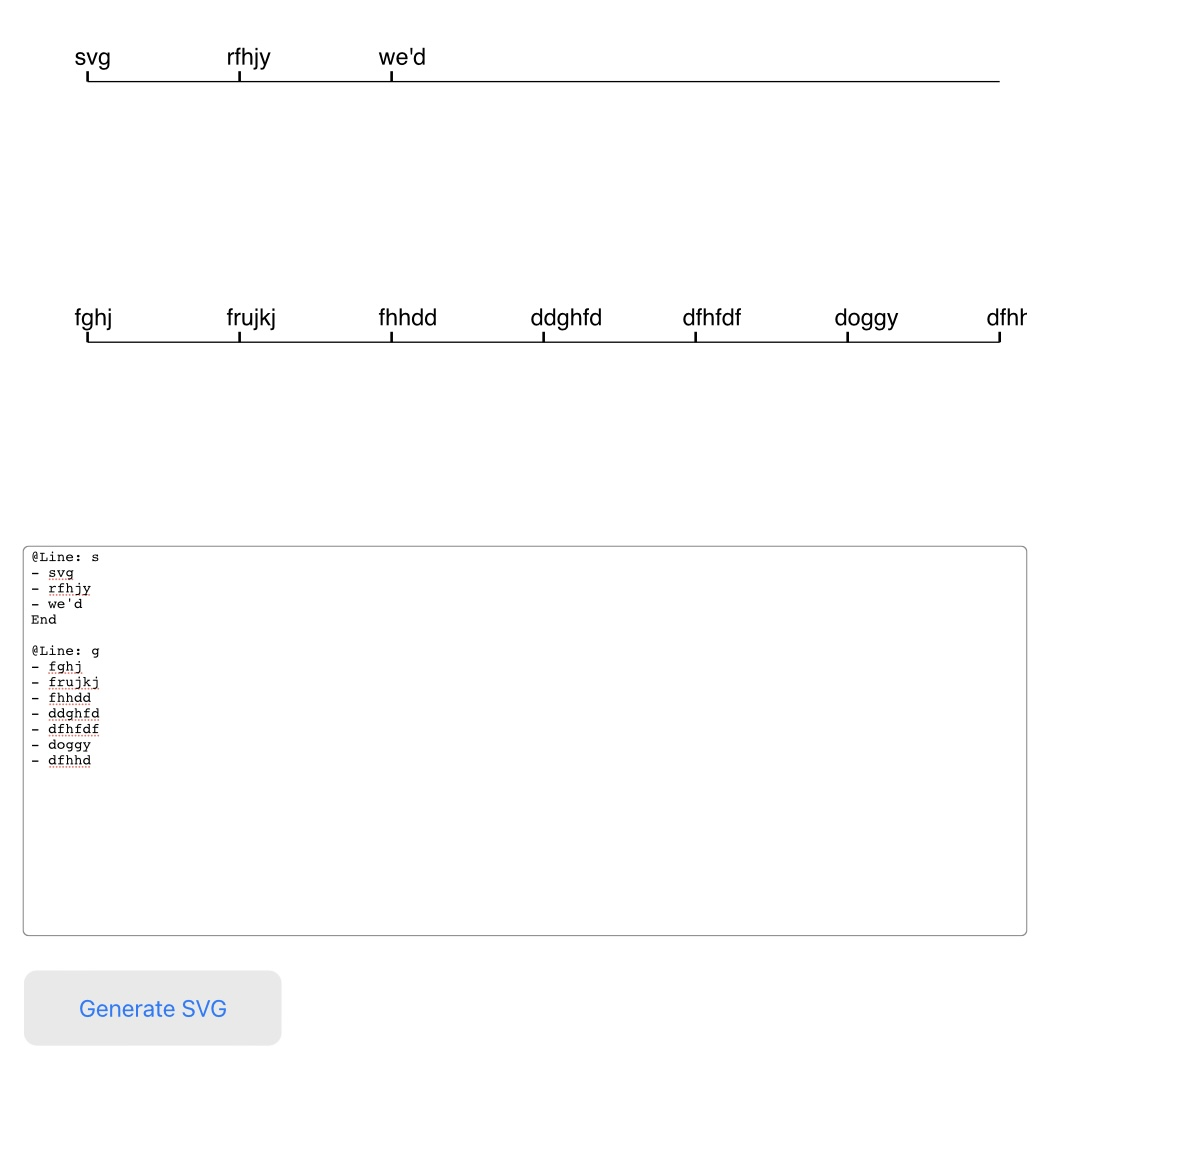
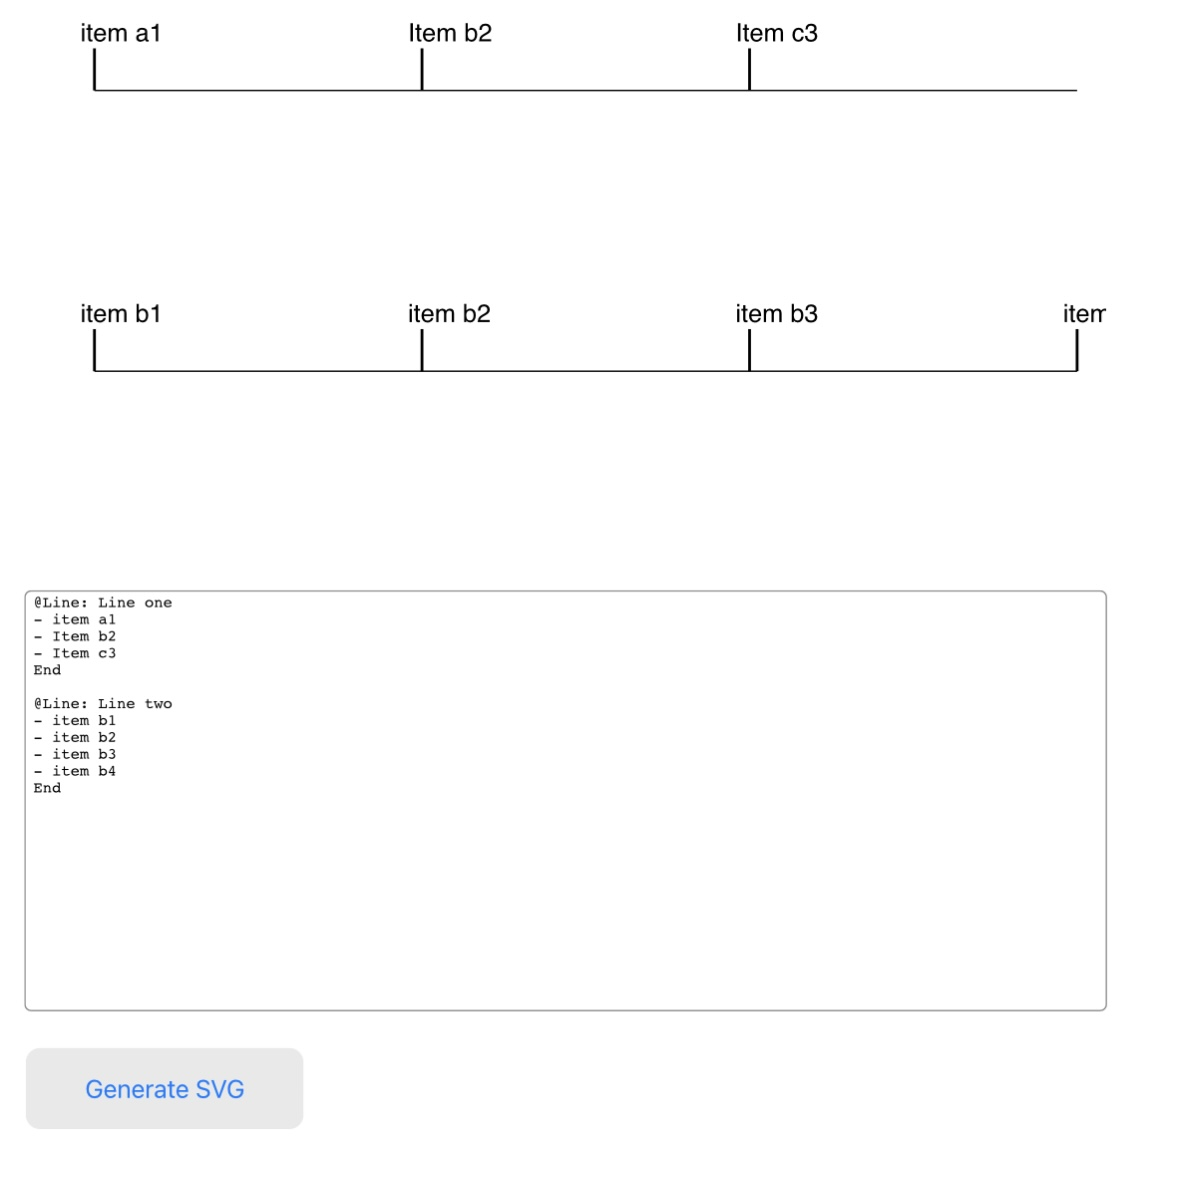
revised example

diff --git a/index.html b/index.html
@@ -144,7 +144,7 @@
         );
 
         const WAYMARK_SPACING = (SVG_WIDTH - WAYMARK_X * 2) / (maxWaymarks - 1);
-        const WAYMARK_HEIGHT = 8;
+        const WAYMARK_HEIGHT = 30;
 
         const TEXT_X_OFFSET = -Math.min(WAYMARK_SPACING / 4, 10);
         const TEXT_Y_OFFSET = -5;
